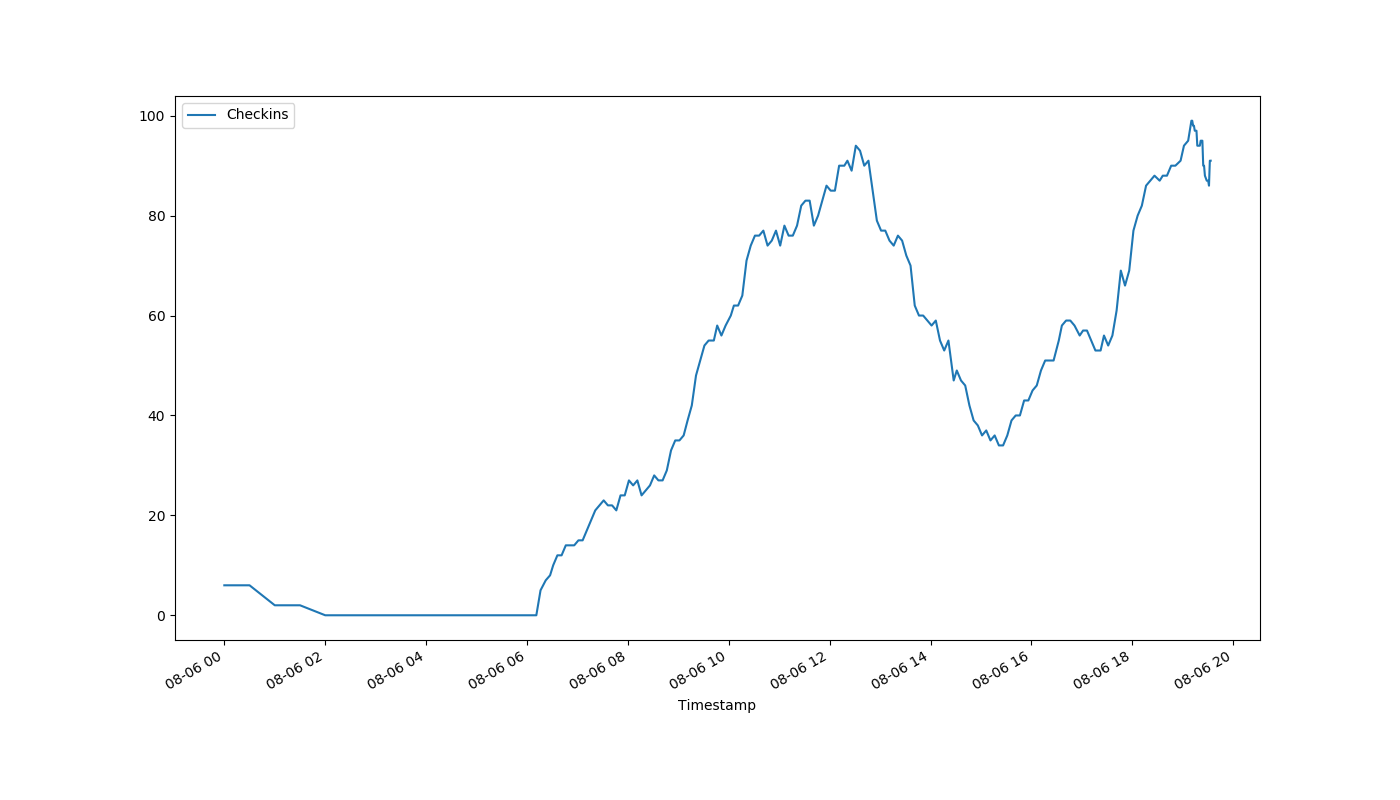
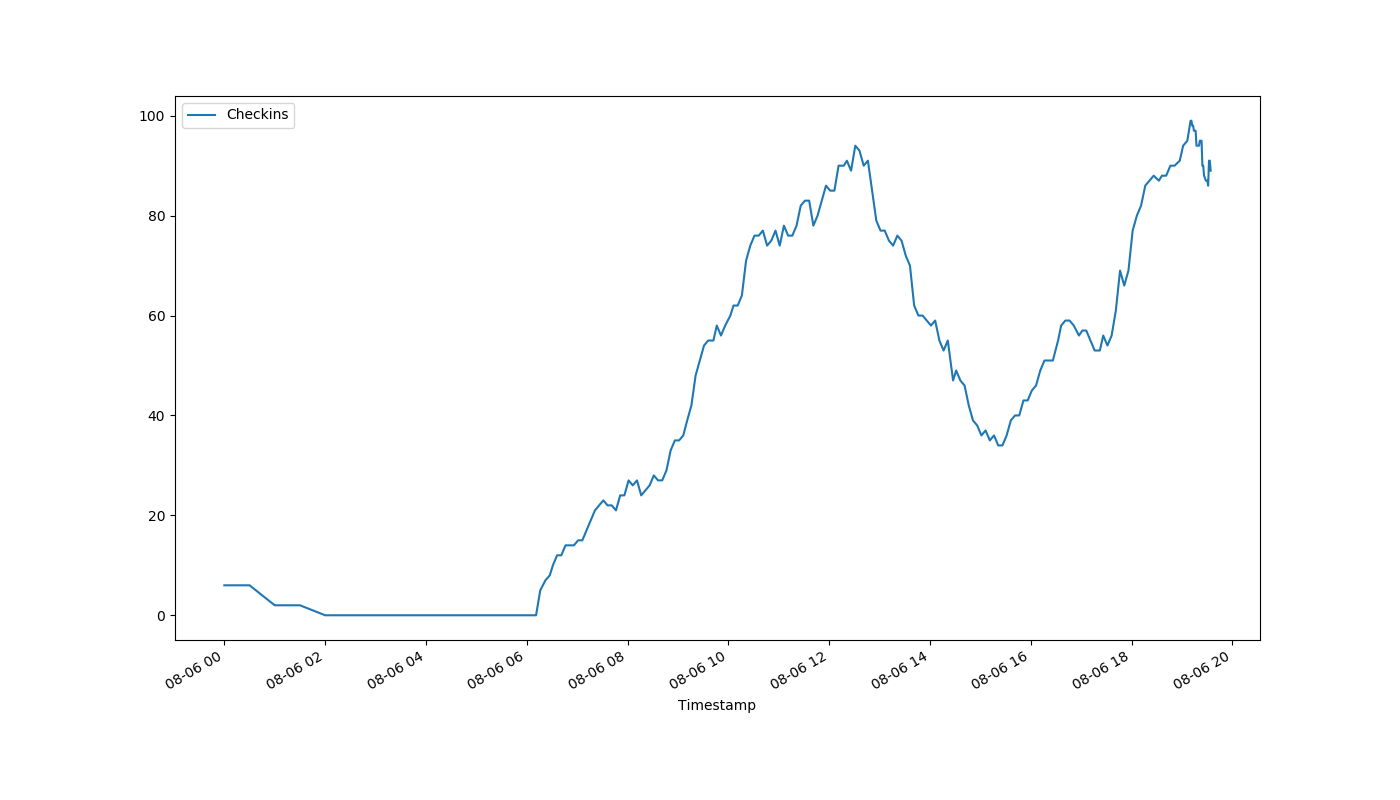
auto-Aug-06-19:35:04

diff --git a/index.html b/index.html
@@ -1,1 +1,1 @@
-<!DOCTYPE html><html><head><meta http-equiv="refresh" content="15"><link rel='stylesheet' href='holmcurrent.css'></head><body><p id='count'>91</p><div id='graph-wrap'><img id='graph' src='holmgraph-Aug-06.png'></div><p id='updated'>Last updated 19:33:07 / 19:33:06</p></body></html>
+<!DOCTYPE html><html><head><meta http-equiv="refresh" content="15"><link rel='stylesheet' href='holmcurrent.css'></head><body><p id='count'>89</p><div id='graph-wrap'><img id='graph' src='holmgraph-Aug-06.png'></div><p id='updated'>Last updated 19:34:07 / 19:34:06</p></body></html>
